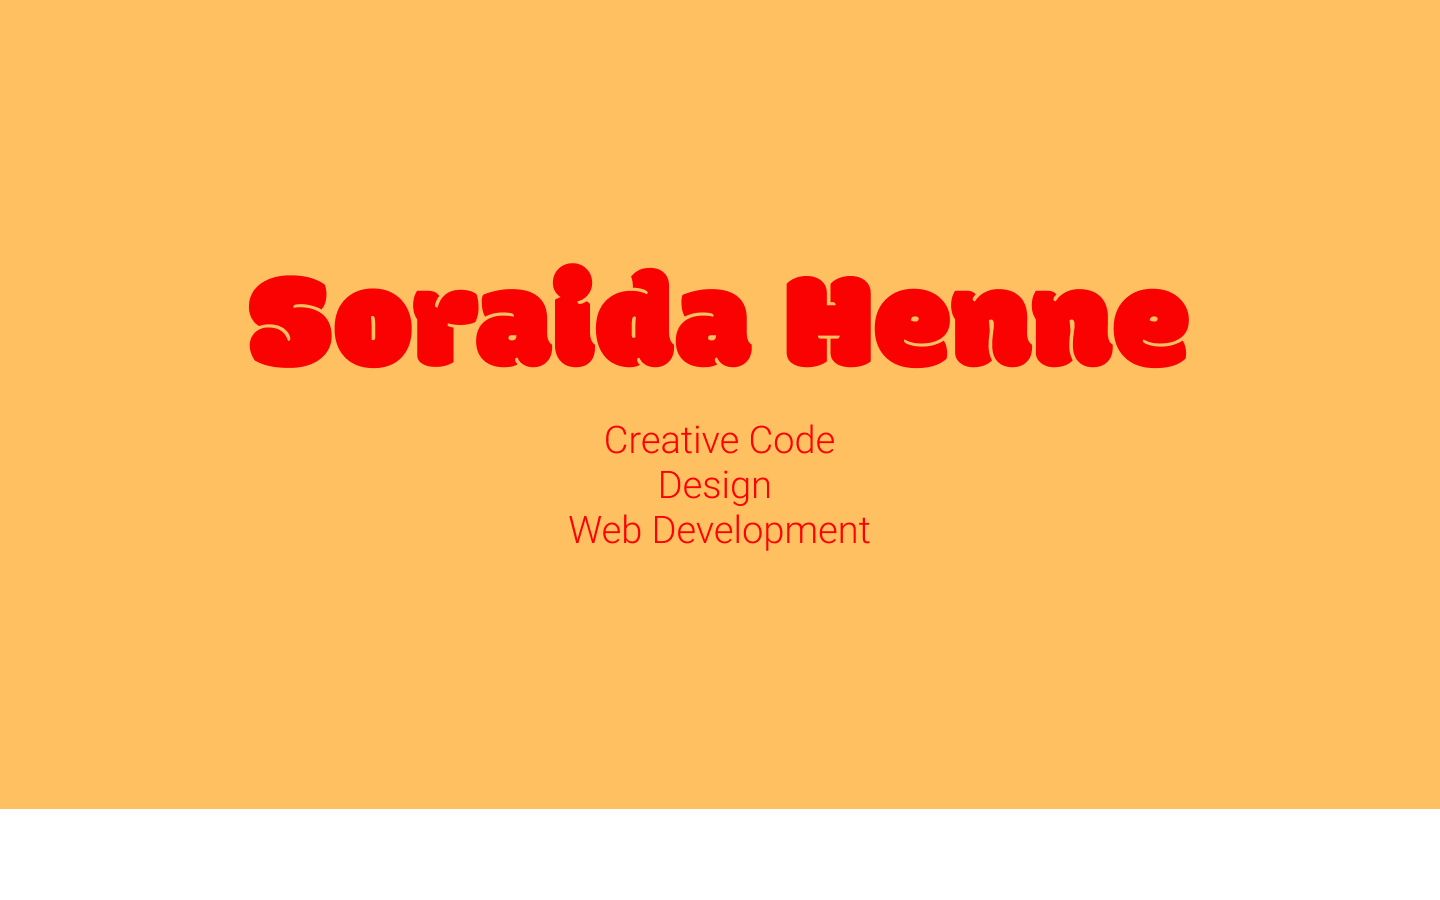
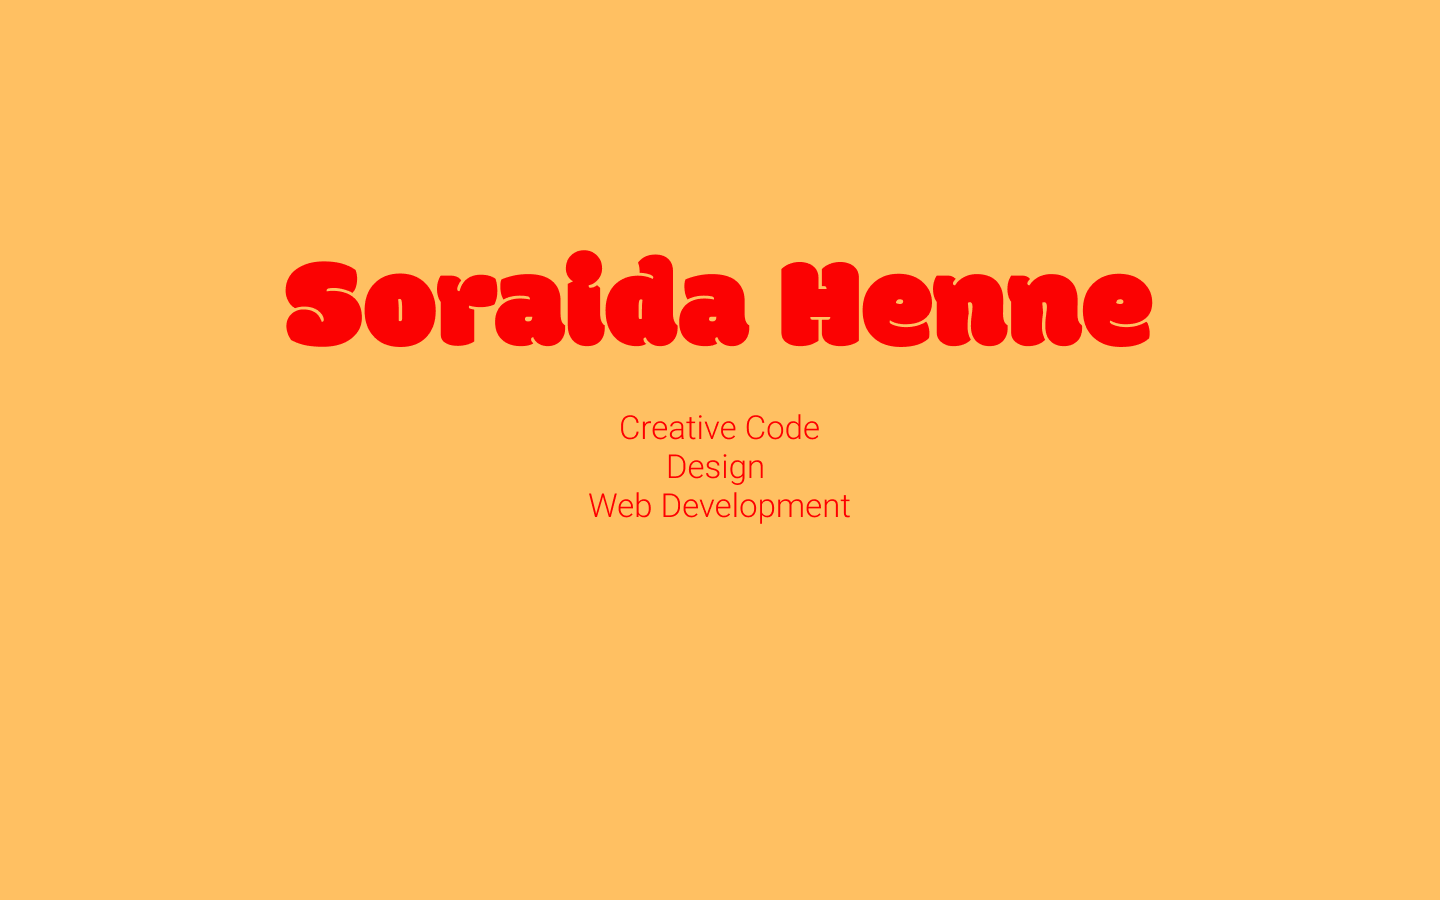
fixed h2 font

Changed region(s): [[0.0, 0.8711, 1.0, 1.0], [0.1562, 0.28, 0.8438, 0.4356], [0.4062, 0.4667, 0.5938, 0.6222]]

diff --git a/source/stylesheets/pages/_home.scss b/source/stylesheets/pages/_home.scss
@@ -79,6 +79,7 @@ html {
 
   }
 
+
   h1 {
     max-width: 50%;
     margin: 25px auto;
@@ -96,6 +97,8 @@ html {
 .container {
   h2 {
     font-family: "Roboto";
+    font-size: 4vmin;
+
     font-weight: lighter;
     color: #FB0202;
   }
@@ -109,9 +112,8 @@ html {
 #about-section {
   color: #4a4a4a;
   display: flex;
-  padding-right: 20px;
-  padding-left: 20px;
-  padding-top: 20px;
+  padding: 20px;
+
 
   align-content: center;
   align-items: center;
@@ -121,7 +123,7 @@ html {
     width: 450px;
 
     h2 {
-      padding: 10px;
+      // padding: 10px;
       // font-size: 28px;
       font-size: 4vmin;
       font-family: "Roboto";
@@ -129,7 +131,7 @@ html {
     }
 
     p {
-      padding: 10px;
+      padding: 5px;
       // font-size: 16px;
         font-size: 14px;
 
